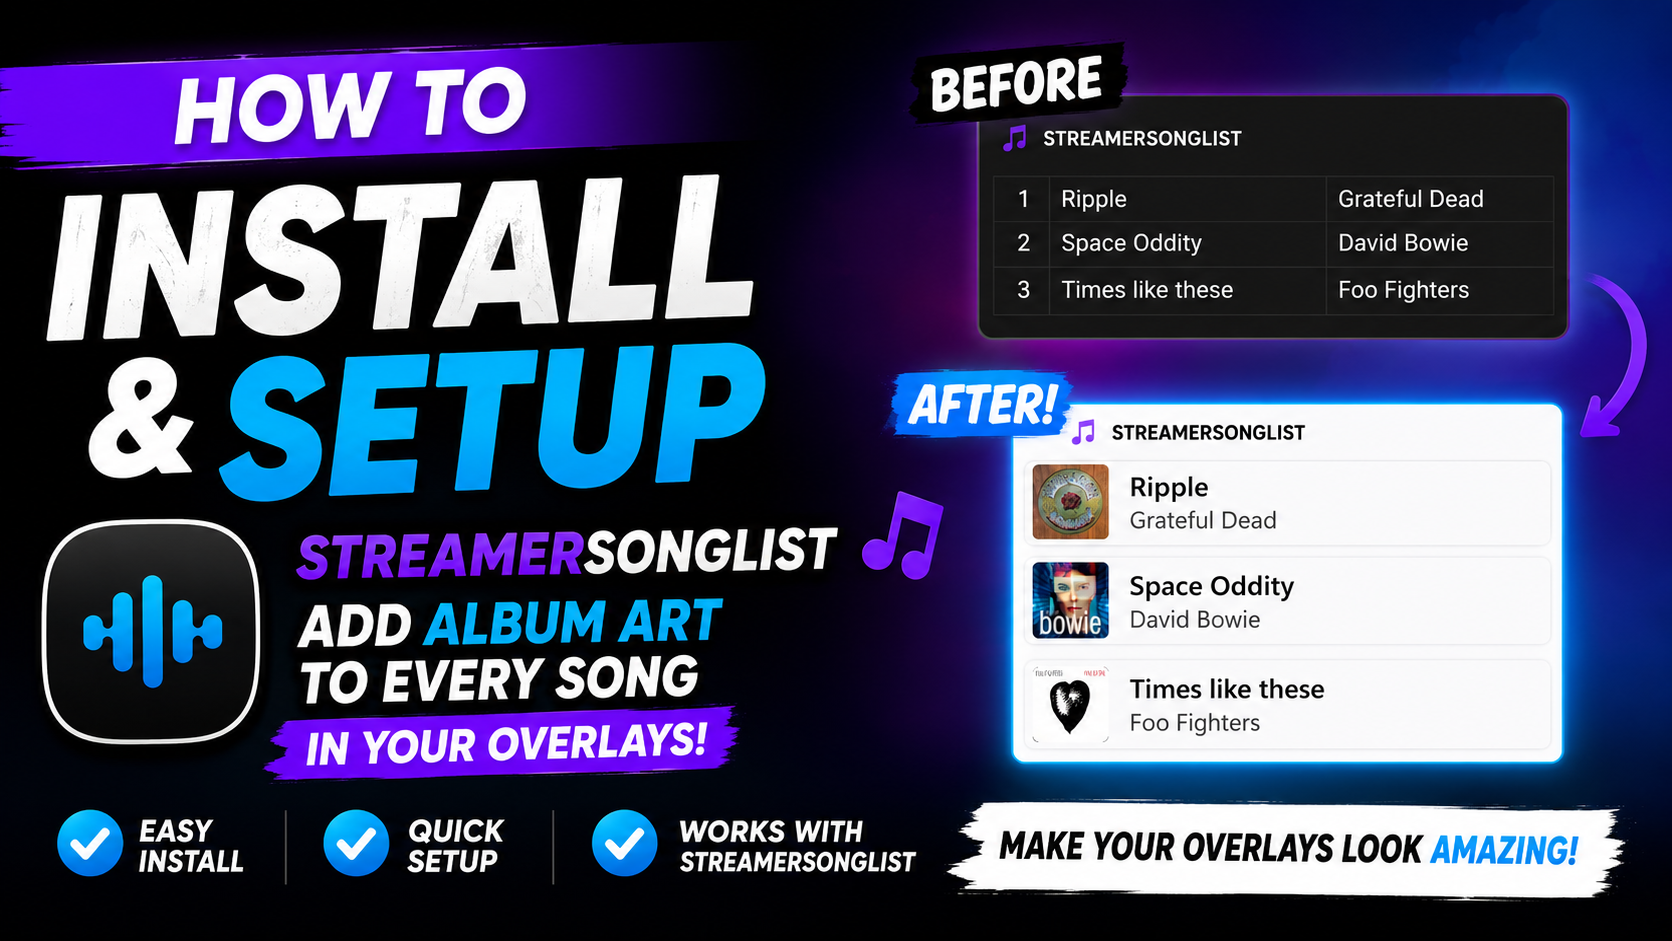
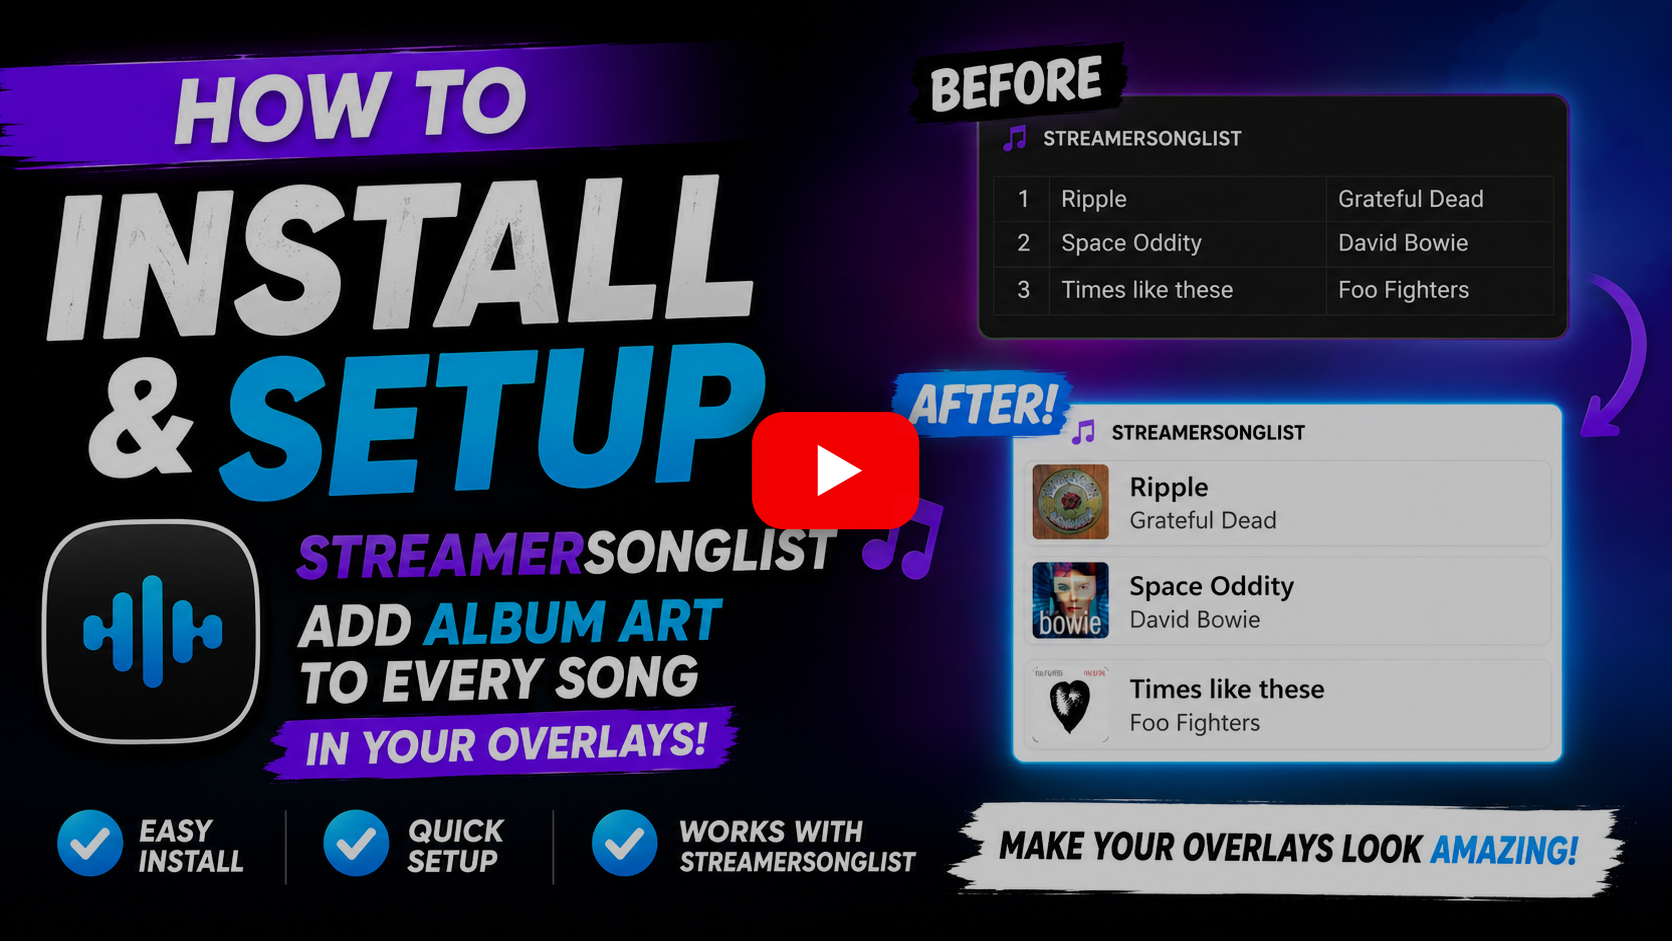
Make the walkthrough thumbnail read as a video
The README thumbnail linked to the YouTube walkthrough but rendered as a plain
banner, so there was nothing to say it was clickable. GitHub's markdown
sanitiser strips iframes, so a real embed is not possible; instead the PNG now
carries a YouTube-style play badge over a light scrim, and a caption line under
it repeats the link as text for anyone who skims past images.

(cherry picked from commit a62945cf5be3c21a1ca4d3315640682da2c250b1)

diff --git a/README.md b/README.md
@@ -21,6 +21,8 @@ Artwork comes from the **iTunes Search API** first, then optionally **Last.fm**
 
 [![Watch the install & setup walkthrough on YouTube](docs/screenshots/install-video-thumbnail.png)](https://www.youtube.com/watch?v=1lnzu5O0h8Q)
 
+▶ **[Watch the install & setup walkthrough on YouTube](https://www.youtube.com/watch?v=1lnzu5O0h8Q)** — just under 7 minutes.
+
 ![The Songs page: your songlist with confirmed artwork](docs/screenshots/songlist-artwork.png)
 
 ---
